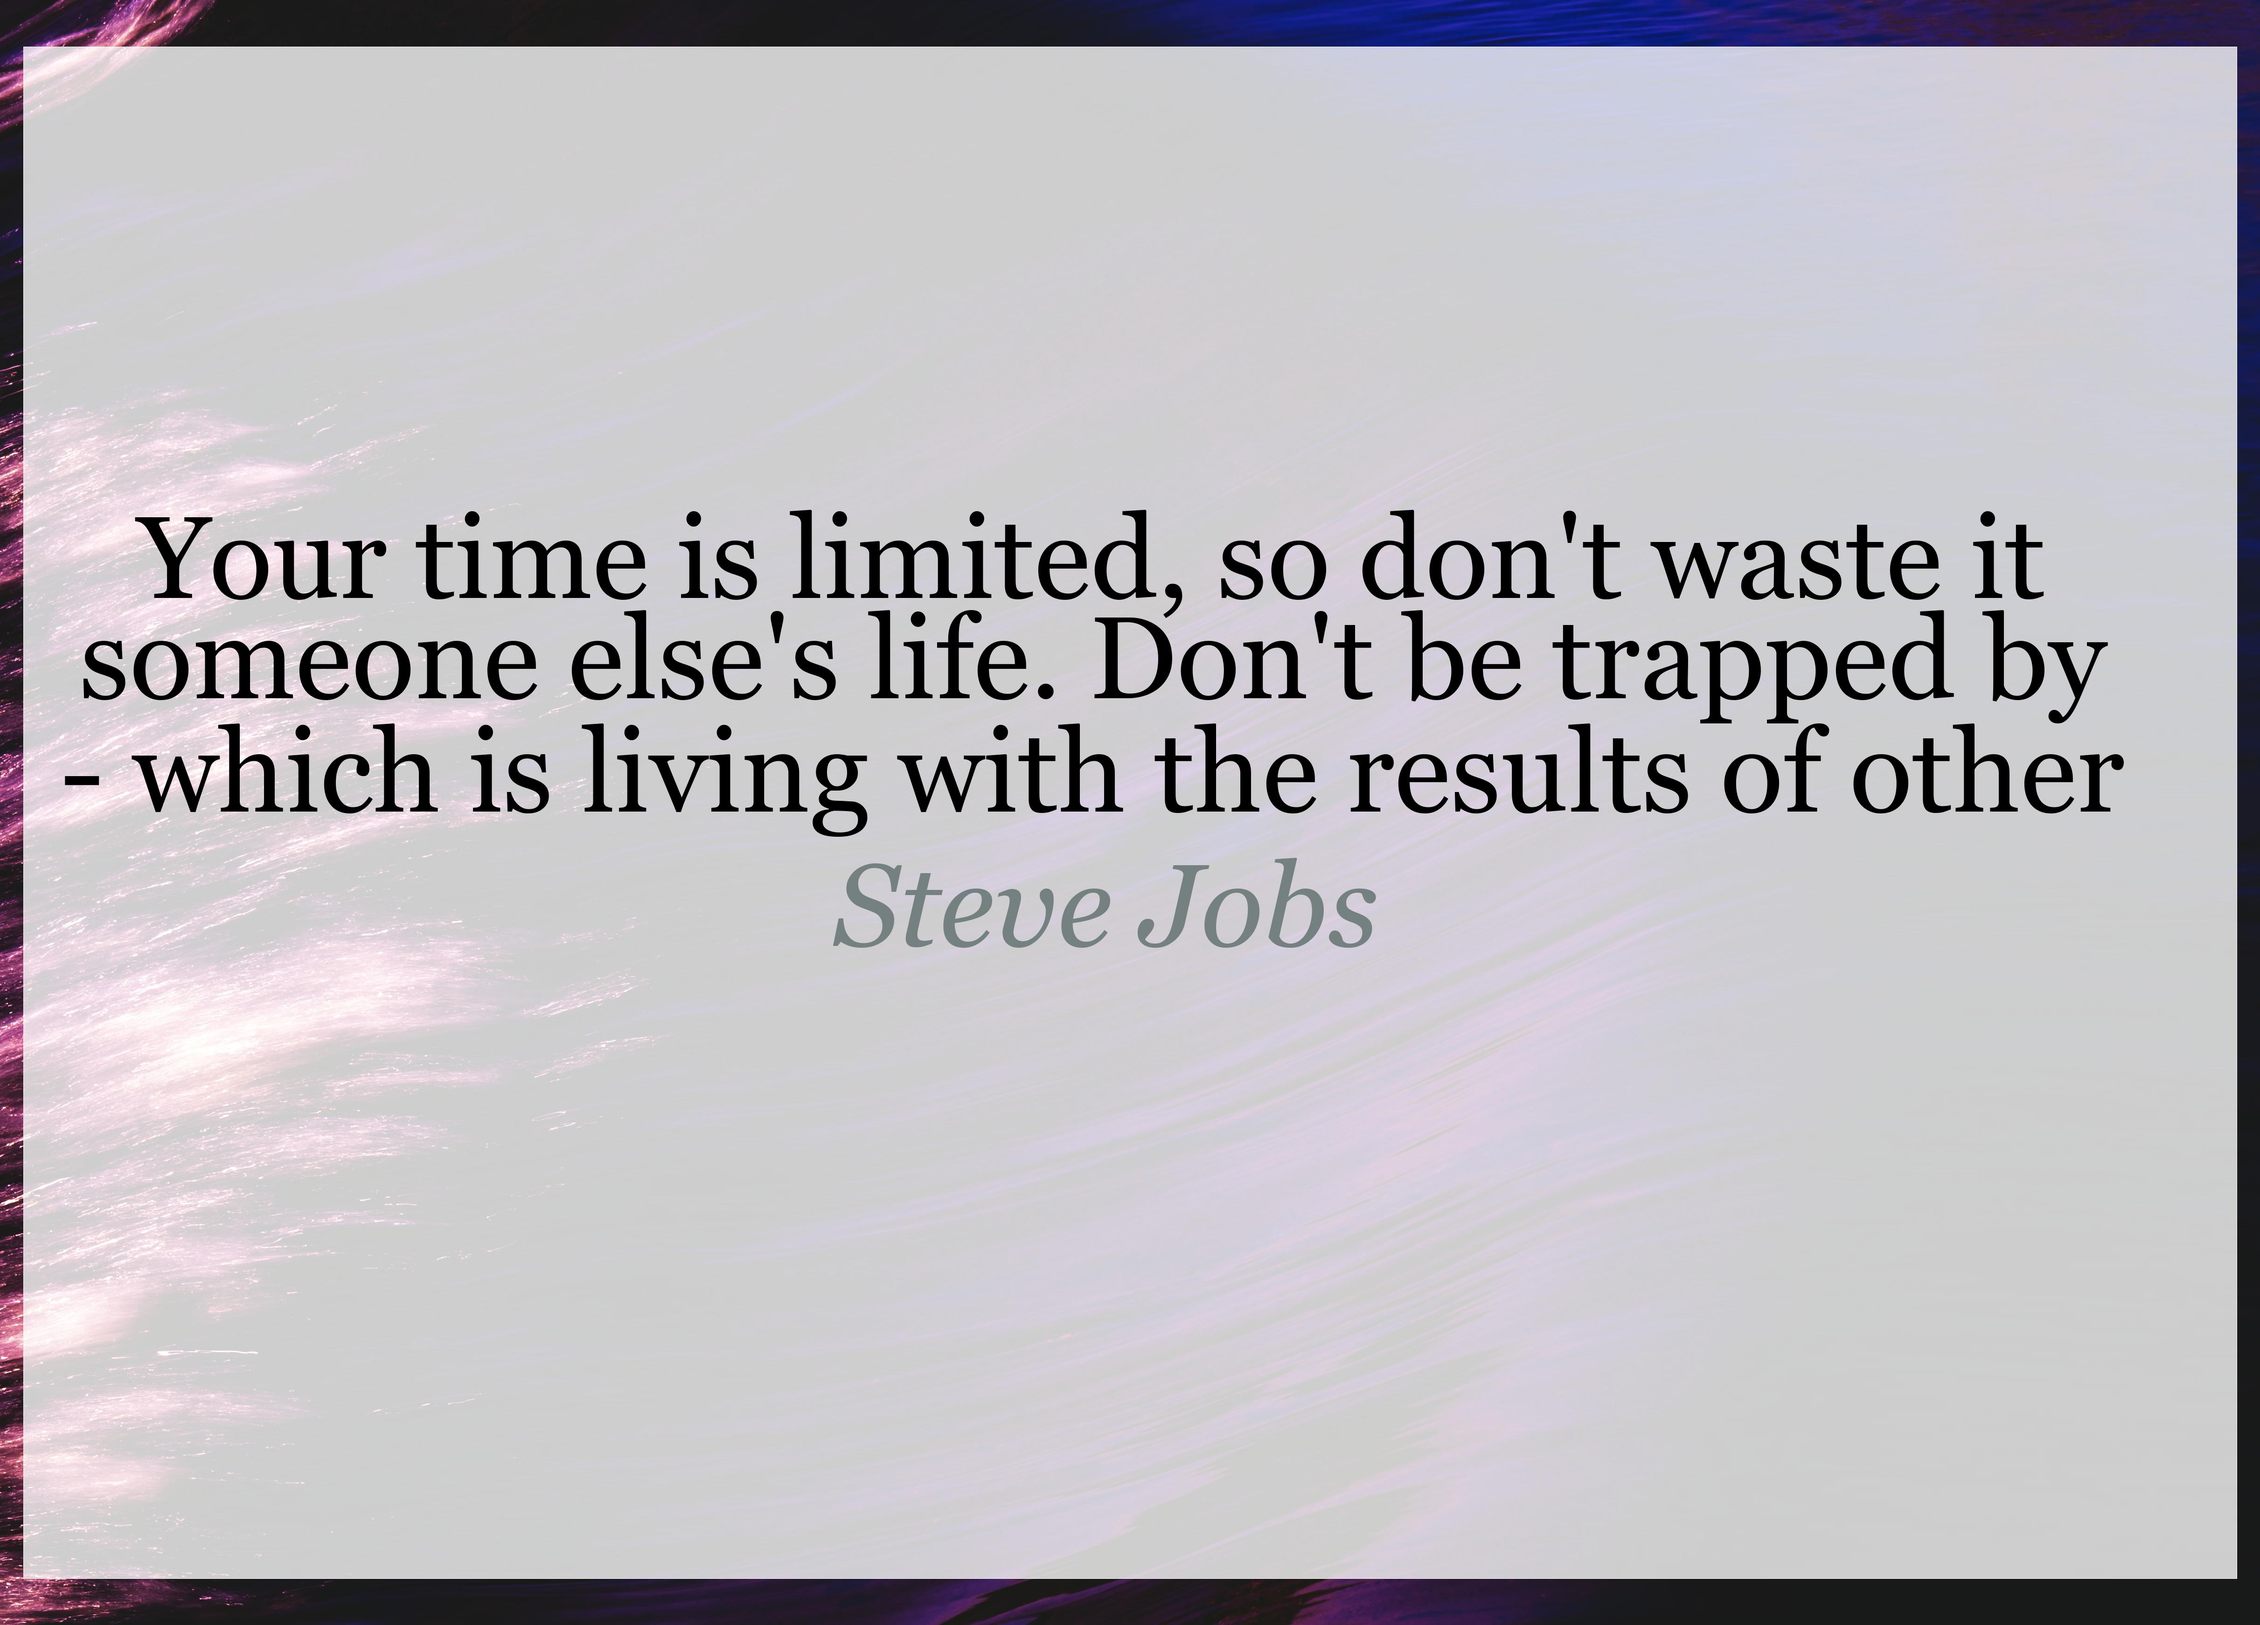
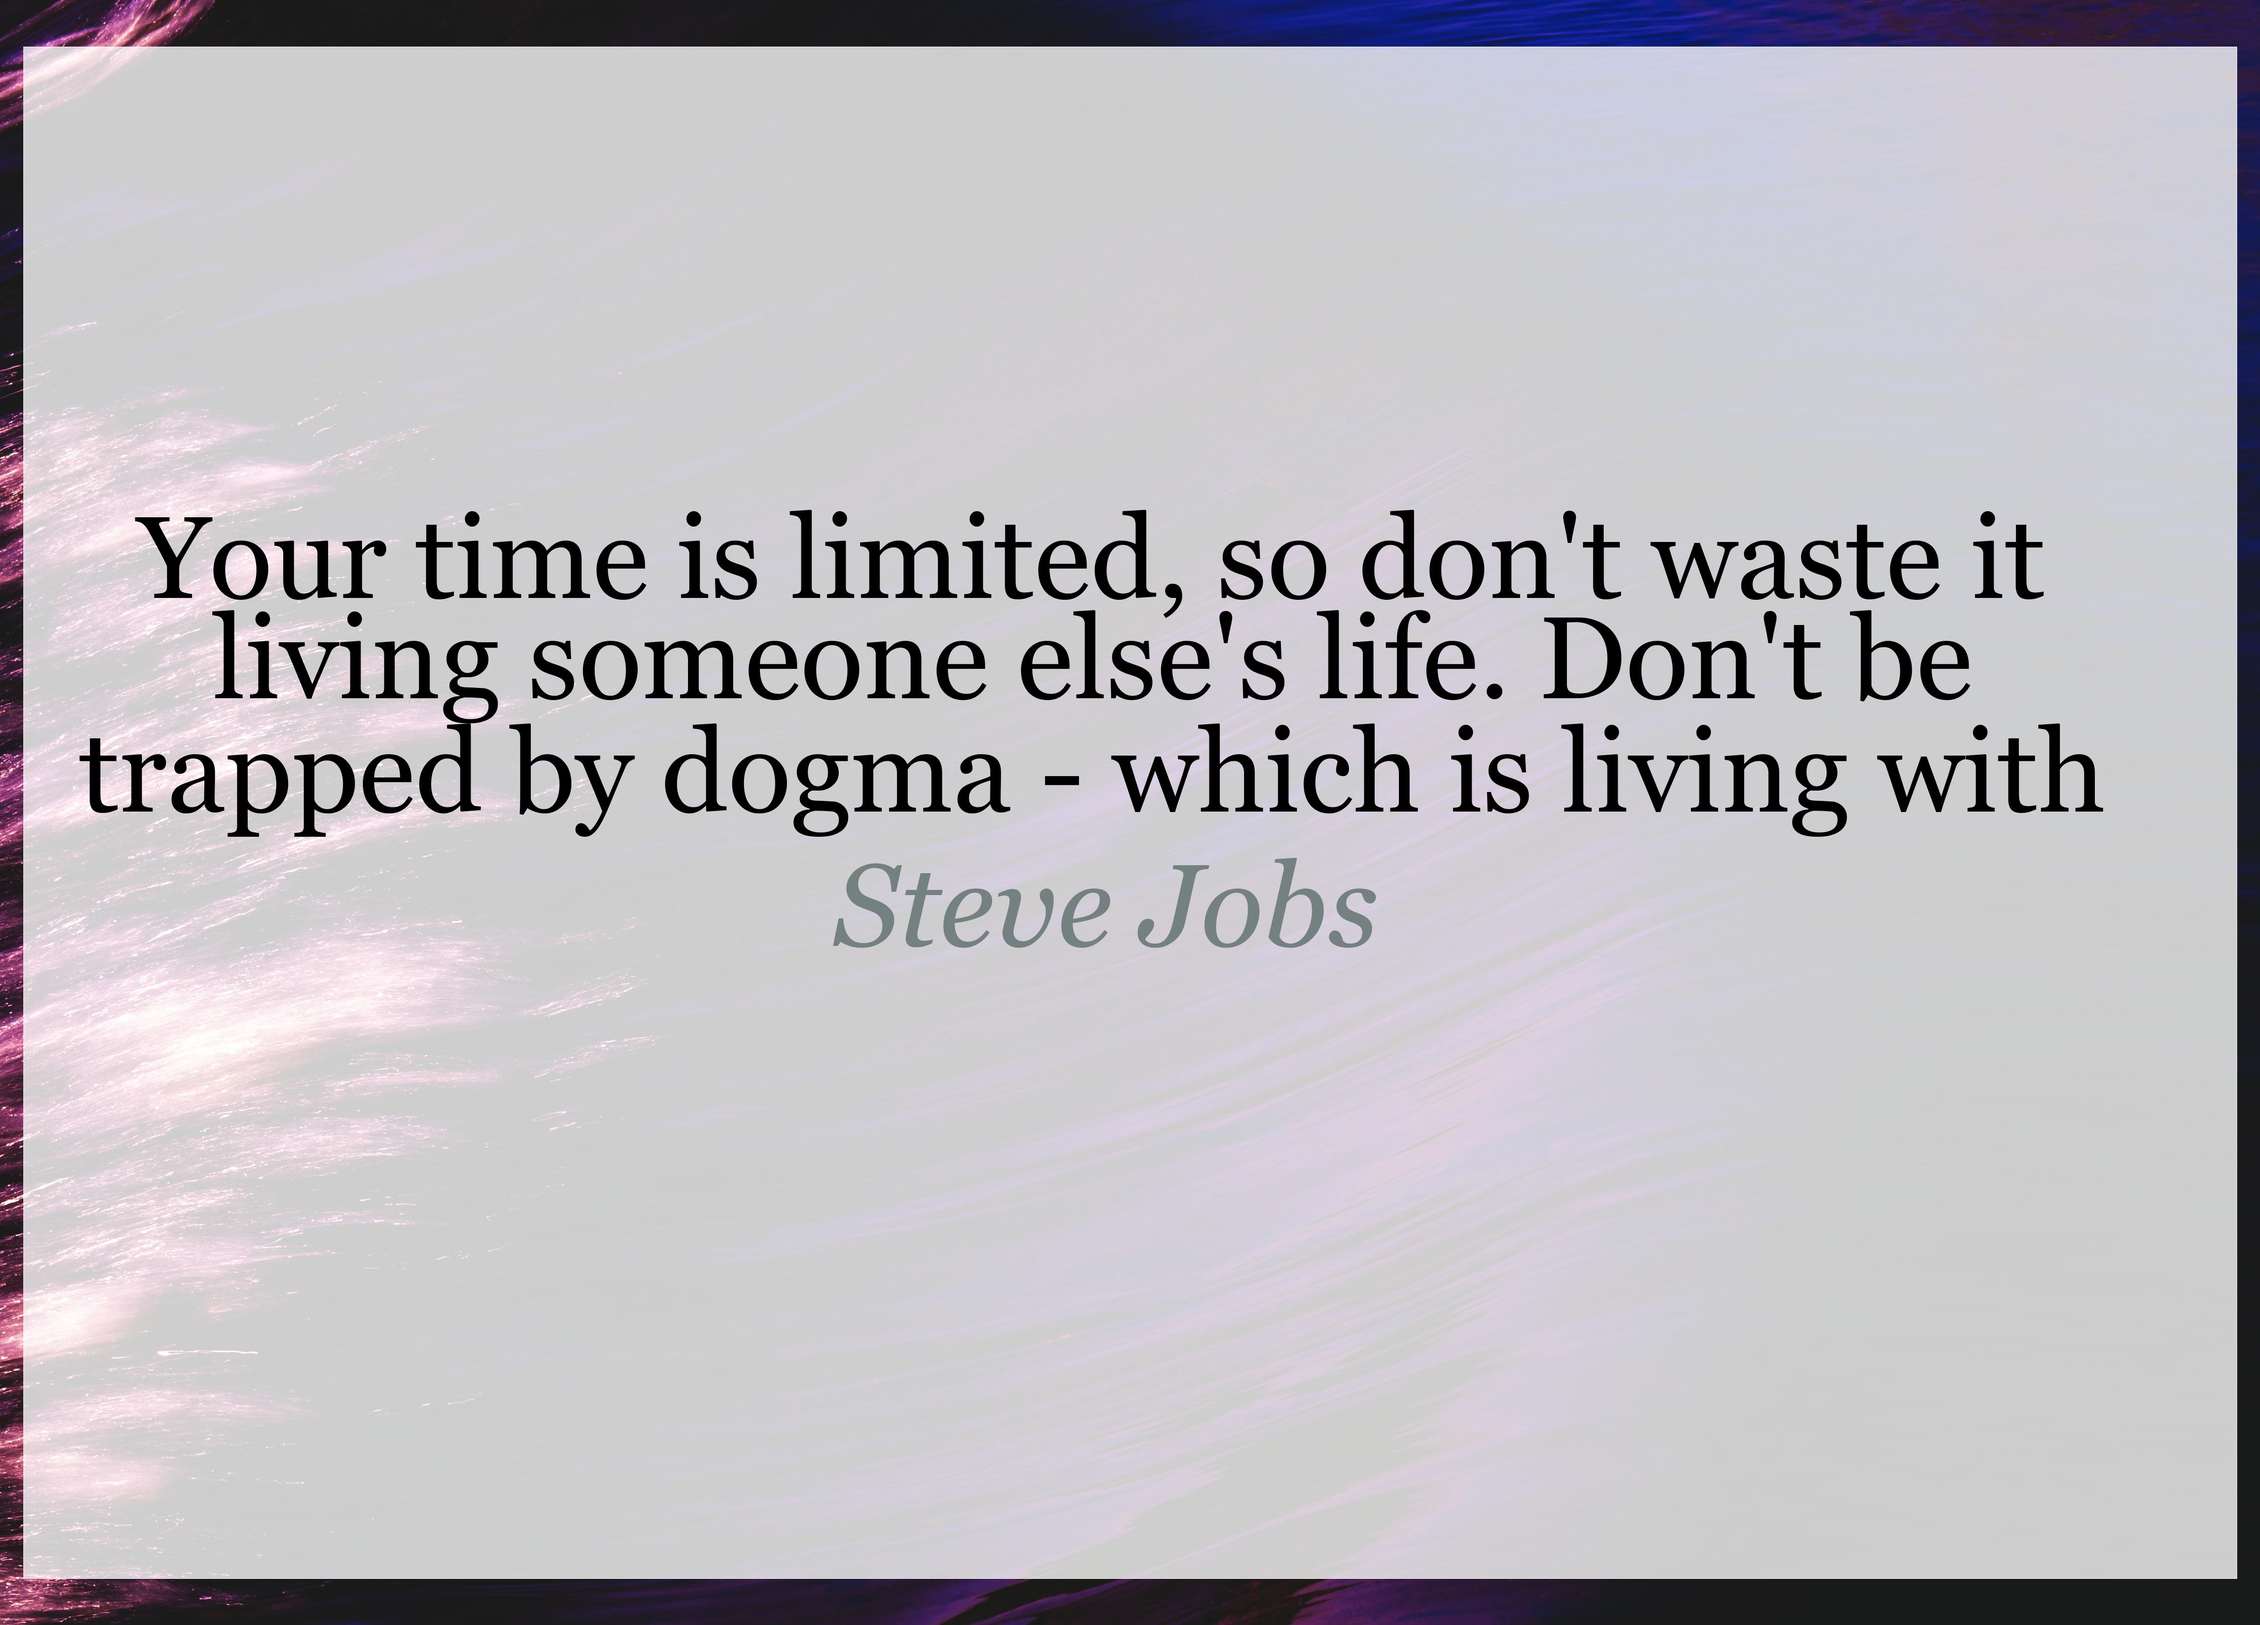
Instead of setting current_line to an empty string, set it to word.text so that no words are skipped

Changed region(s): [[0.0312, 0.372, 0.935, 0.527]]

diff --git a/edit_photos.py b/edit_photos.py
@@ -31,7 +31,7 @@ class Text:
             if word.width + current_line.width >= max_width:
                 line = Text(current_line.text, self.font)
                 lines.append(line)
-                current_line.text = ""
+                current_line.text = word.text
             else:
                 current_line.text += word.text
         # Reverse list to show the first lines at the top, and the last lines at the bottom
